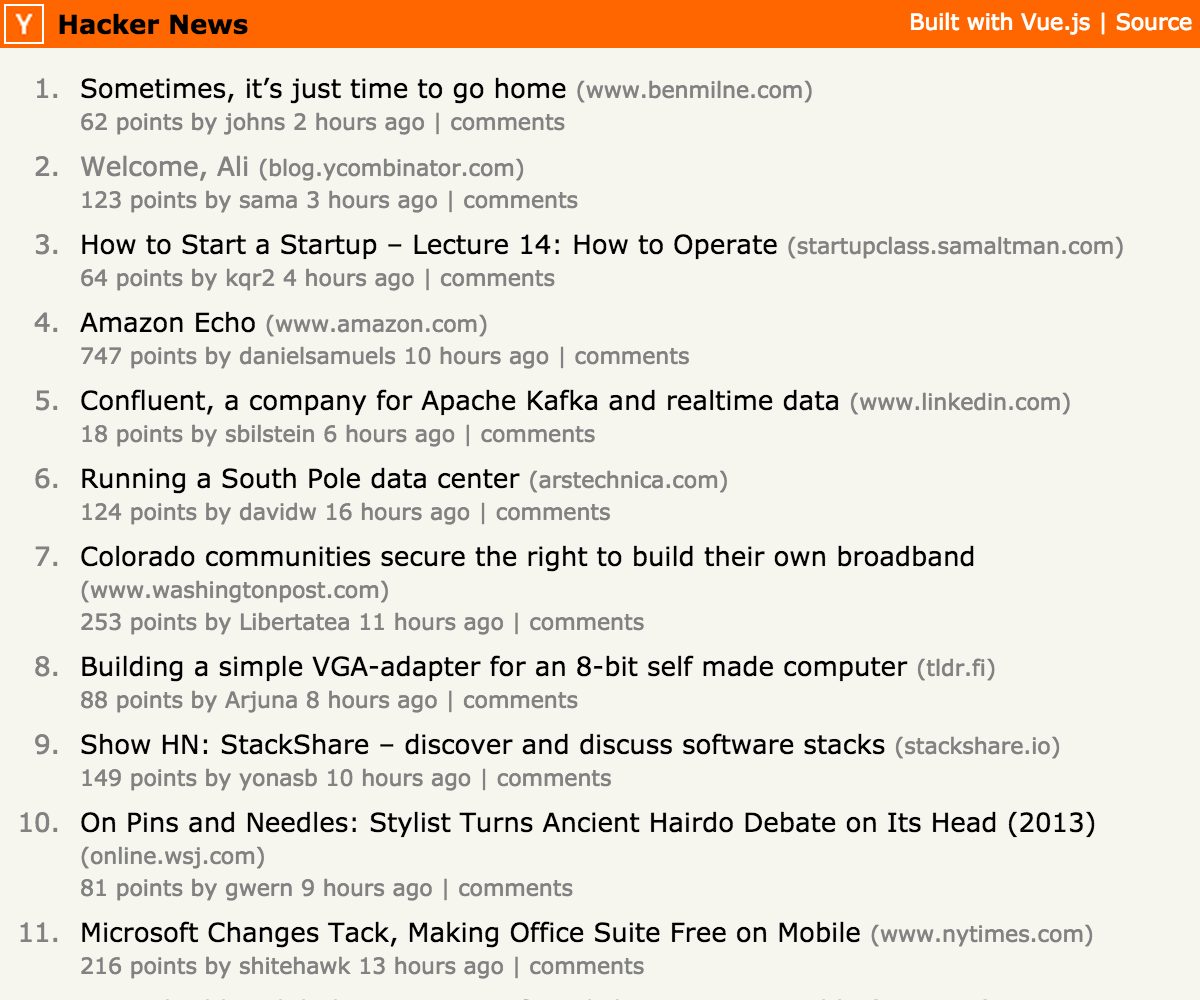
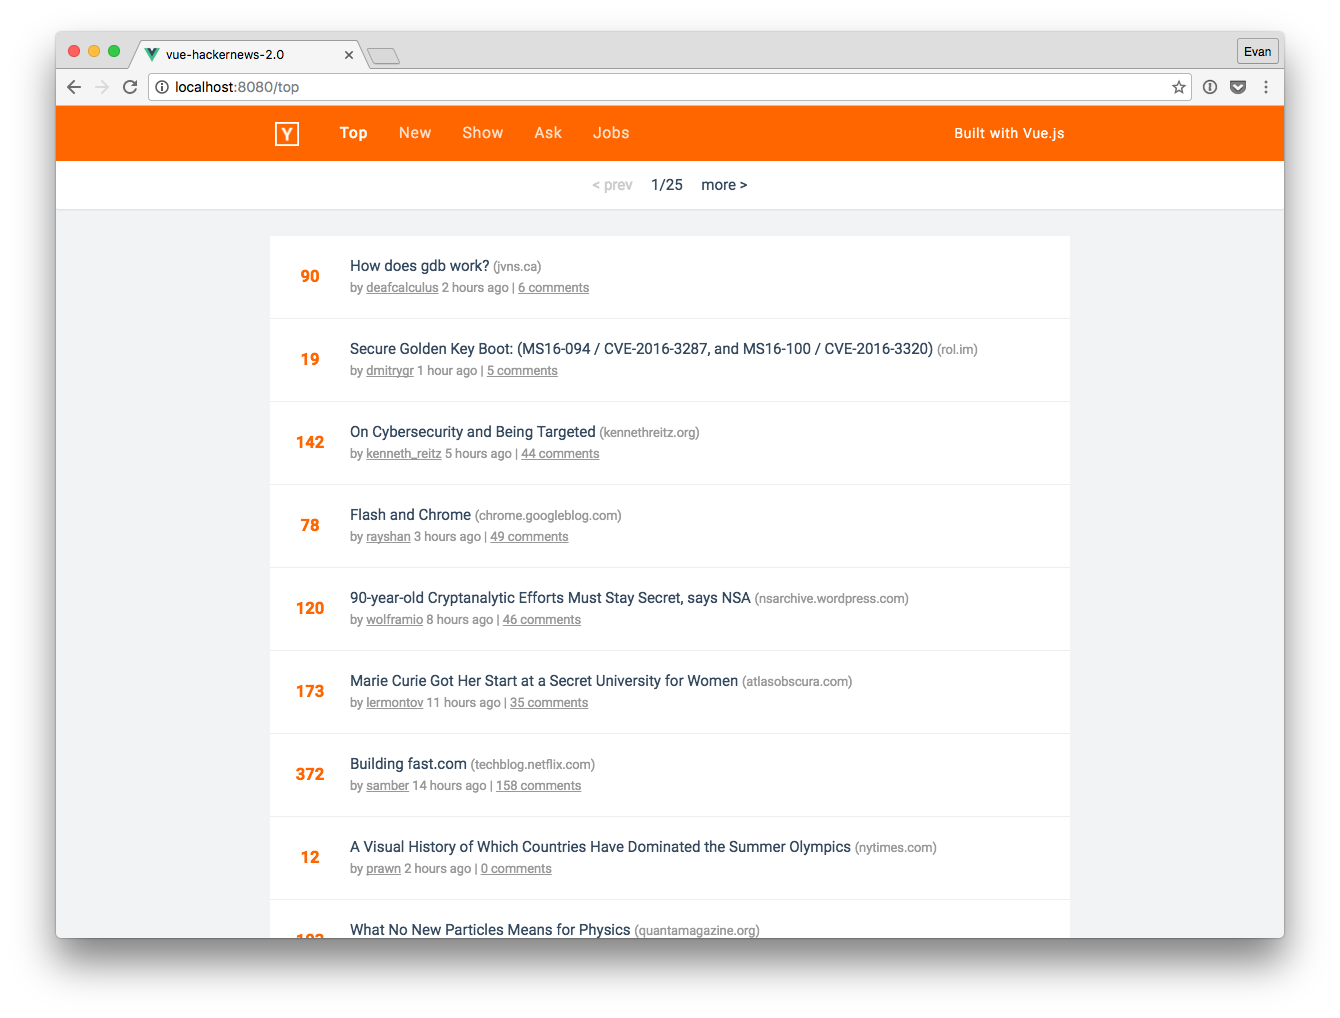
added new screenshot, explanations from the repo and the diagram

Changed region(s): [[0.0, 0.0, 1.0, 0.992]]

diff --git a/src/examples/hackernews.md b/src/examples/hackernews.md
@@ -4,10 +4,32 @@ type: examples
 order: 10
 ---
 
-> This is a HackerNews clone built upon HN's official Firebase API, and using Webpack + vue-loader for the build setup.
+> This is a HackerNews clone built upon HN's official Firebase API, Vue 2.0 + vue-router + vuex, with server-side rendering.
 
+{% raw %}
 <div style="max-width:600px">
-  <a href="http://vuejs.github.io/vue-hackernews" target="_blank"><img style="width:100%" src="/images/hn.png"></a>
+  <a href="https://github.com/vuejs/vue-hackernews-2.0" target="blank">
+    <img style="width:100%" src="/images/hn.png">
+  </a>
 </div>
+{% endraw %}
+[Live Demo](https://vue-hn.now.sh/)
 
-> [[Source](https://github.com/vuejs/vue-hackernews)]
+> [[Source](https://github.com/vuejs/vue-hackernews-2.0)]
+
+> Note: the demo may need some spin up time if nobody has accessed it for a certain period.
+
+## Features
+
+- Server Side Rendering
+  - Vue + vue-router + vuex working together
+  - Server-side data pre-fetching
+  - Client-side state & DOM hydration
+- Single-file Vue Components
+  - Hot-reload in development
+  - CSS extraction for production
+- Real-time List Updates with FLIP Animation
+
+## Architecture Overview
+
+<img width="973" alt="Hackernew clone architecture overview" src="/images/hn-architecture.png">
